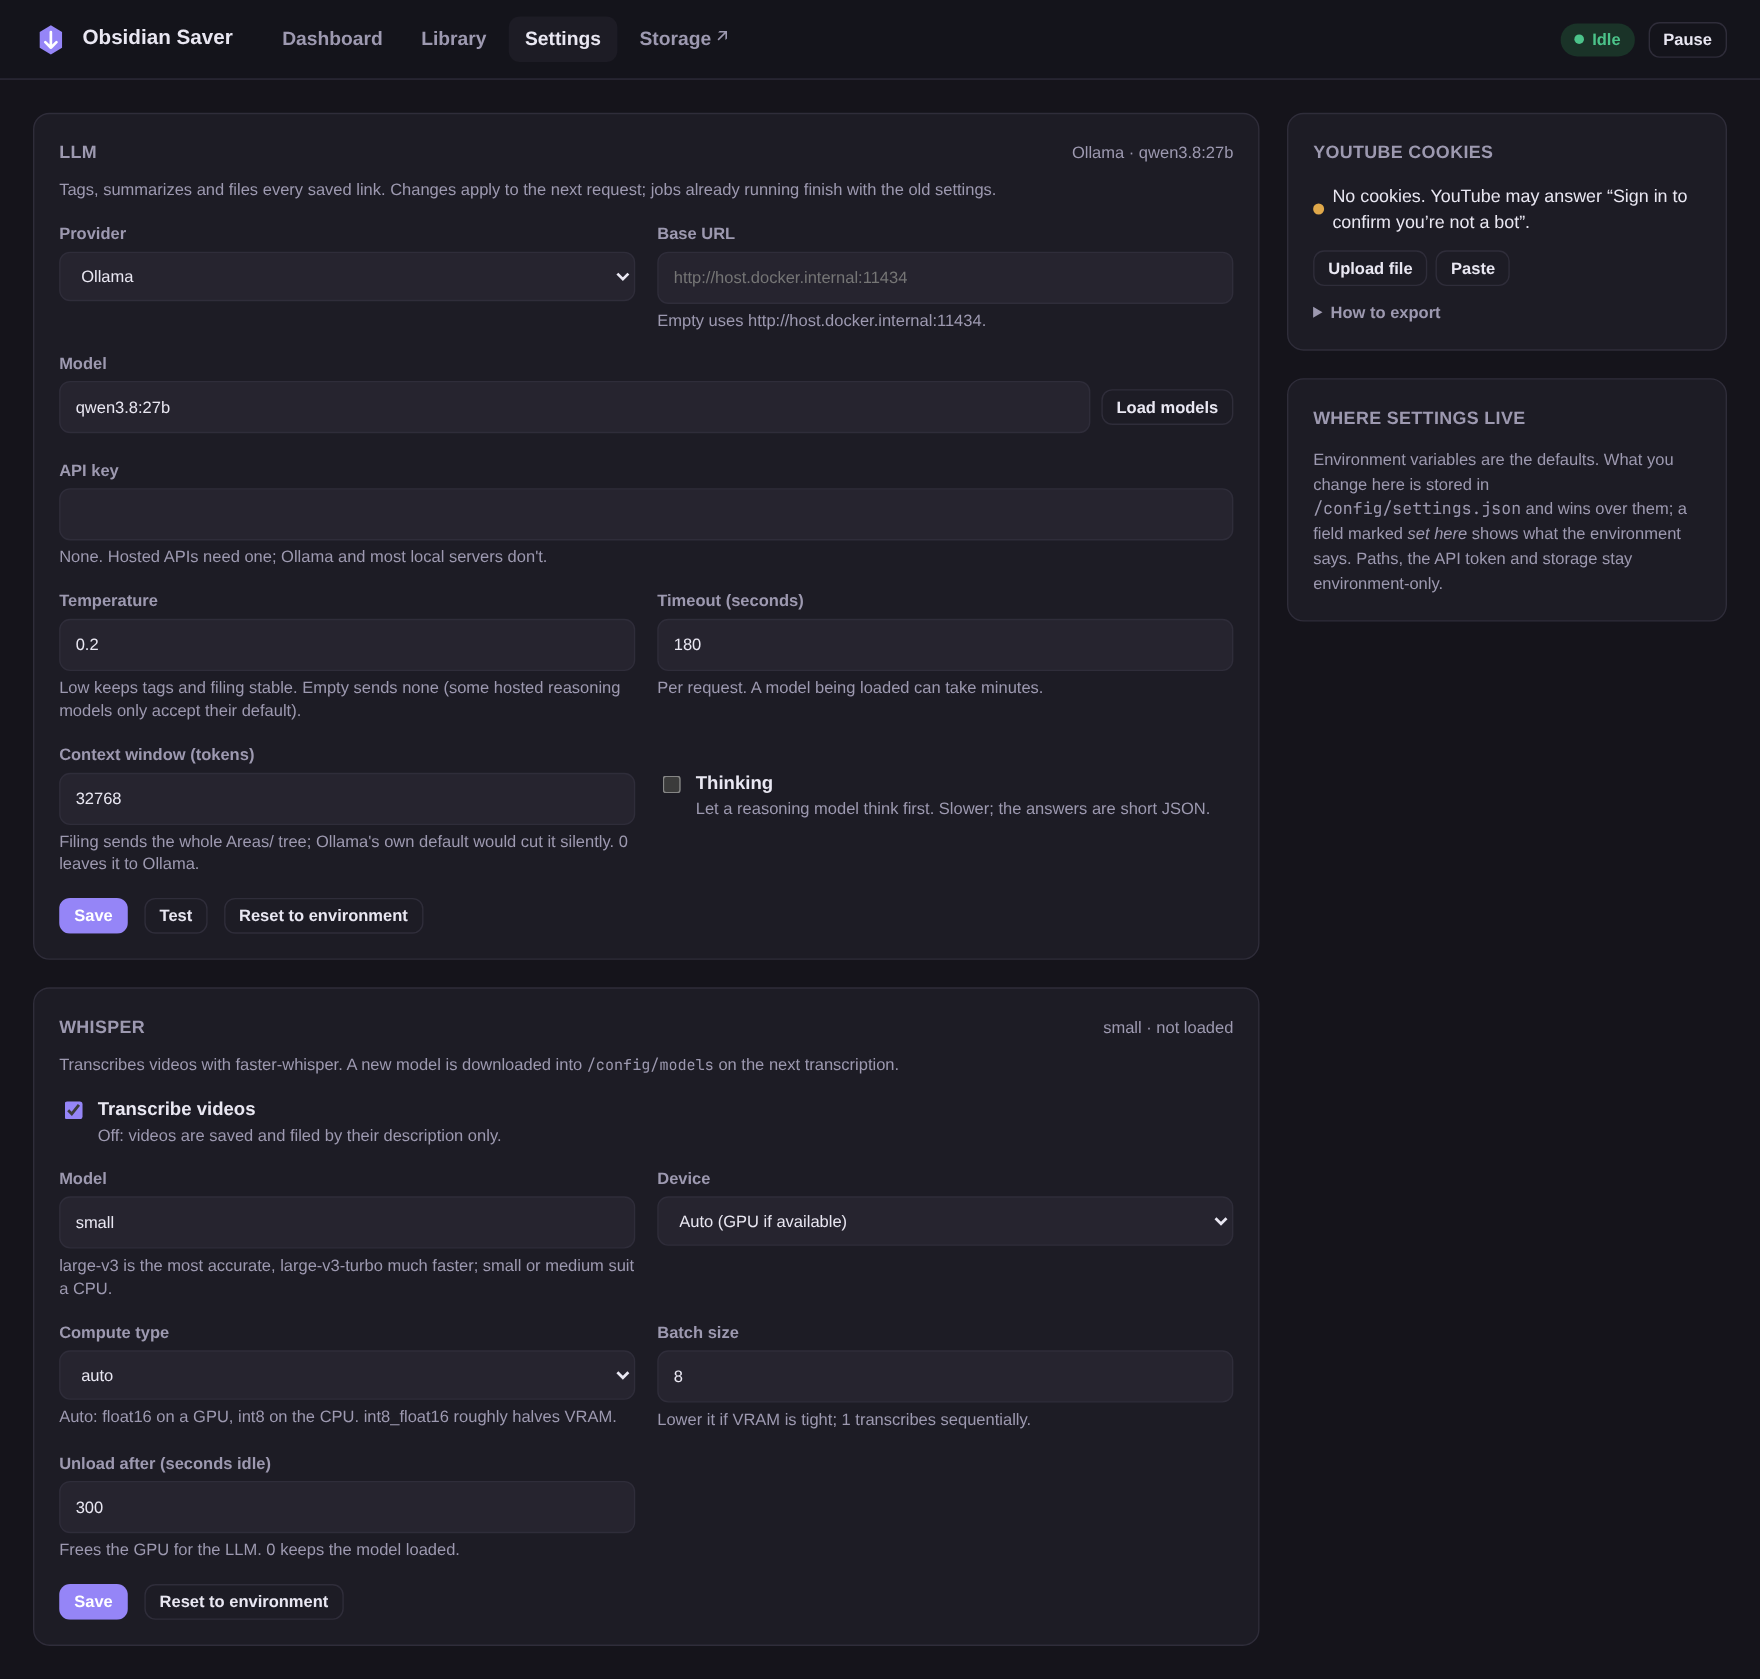
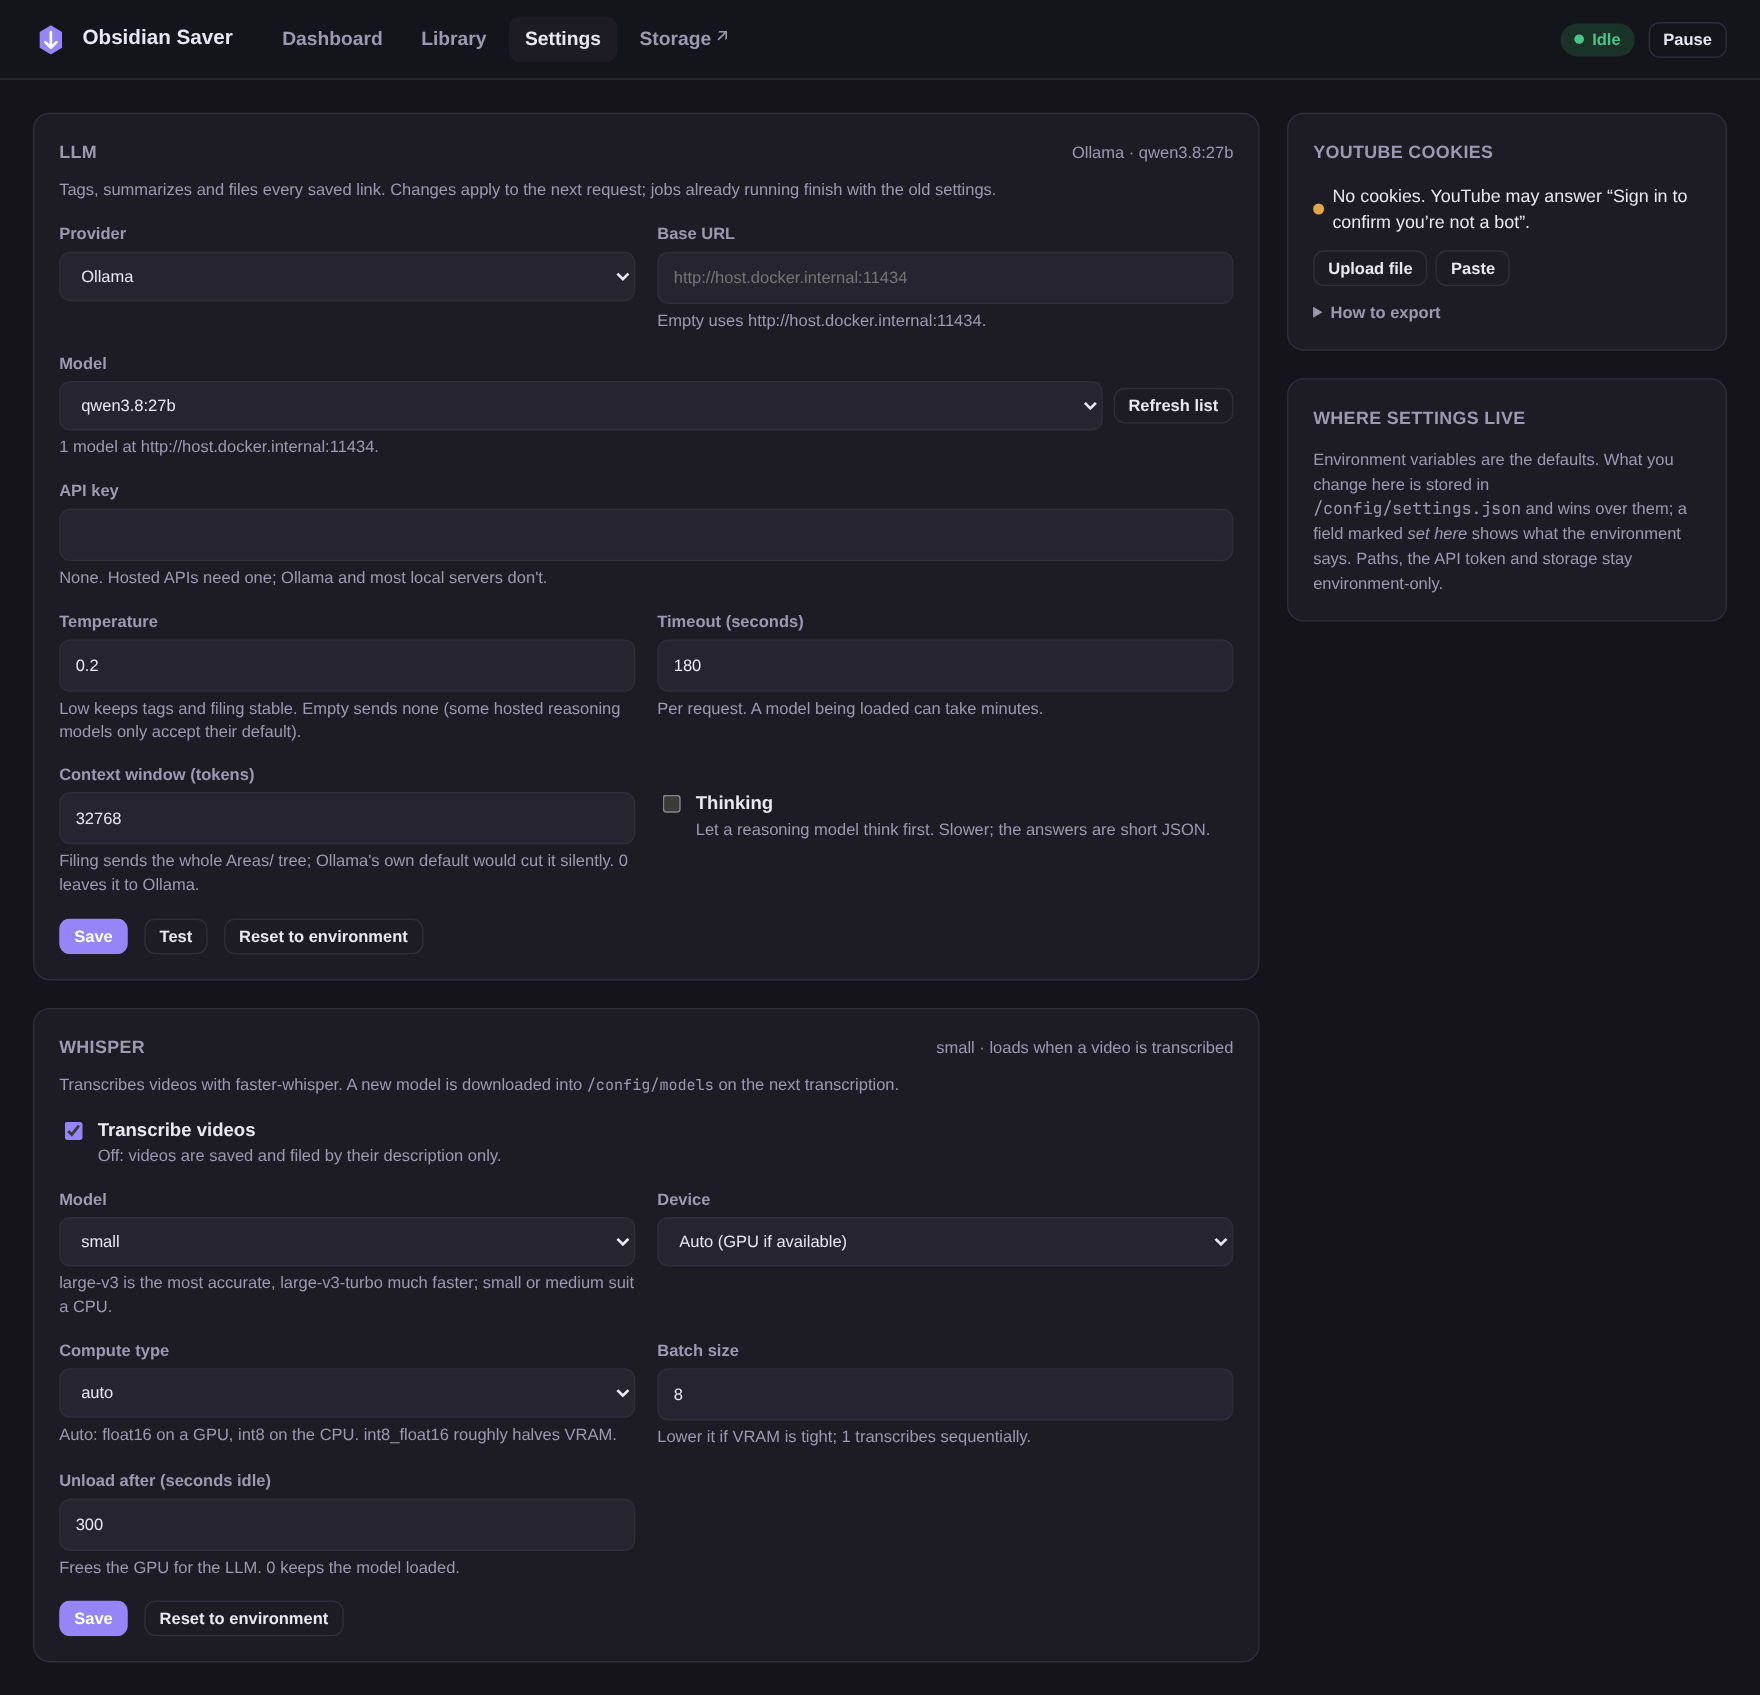
Settings tab: visible Test result, clearer Whisper state
- Test: the button reads "Testing…" while waiting, and the result is
  scrolled into view and stays until the next action. Under the long
  Ollama form it appeared below the fold and vanished after 6 s, so a
  quick answer looked like the button did nothing.
- Whisper showed "not loaded", which reads like a fault. The model is only
  loaded to transcribe and freed when idle, so it now says "loads when a
  video is transcribed", "in memory on the GPU, freed after 5 min idle"
  or "transcribing", and names the model in memory when it isn't the one
  just selected.
- README: Settings screenshots with the model dropdown.

diff --git a/saver/static/app.js b/saver/static/app.js
@@ -174,16 +174,31 @@ function renderStatus(state) {
   const info = [
     ["Vault", state.config.vault],
     ["LLM", `${state.config.llm_model} (${PROVIDER_LABELS[state.config.llm_provider] || state.config.llm_provider})`],
-    ["Whisper", w.enabled ? `${w.model}${w.loaded ? ` · loaded (${w.device})` : " · idle"}${w.busy ? " · busy" : ""}` : "disabled"],
+    ["Whisper", w.enabled ? `${w.model} · ${whisperState(w, true)}` : "off"],
     ["Cookies", cookieSummary(state.config.cookies)],
     ["Inbox", state.config.inbox_watch ? "watching singlefile_inbox" : "off"],
     ["Waypoints", waypointSummary(state.waypoints)],
     ["Version", state.version],
   ];
-  $("#whisper-state").textContent = !w.enabled ? "off"
-    : `${w.model}${w.loaded ? ` · loaded on ${w.device}` : " · not loaded"}${w.busy ? " · transcribing" : ""}`;
+  $("#whisper-state").textContent = whisperState(w);
   $("#service-info").replaceChildren(...info.flatMap(([k, v]) => [
     el("dt", {}, k), el("dd", { title: v, class: String(v).startsWith("⚠") ? "warn" : null }, v)]));
+}
+
+// Whisper loads its model only to transcribe and frees it after
+// unload_after idle seconds (the GPU is shared with the LLM), so "not in
+// memory" is the normal state, not a fault.
+function whisperState(w, short = false) {
+  if (!w.enabled) return "off";
+  const where = w.device === "cuda" ? "GPU" : (w.device || "").toUpperCase();
+  if (w.busy) return w.loaded ? `transcribing on the ${where}` : "loading the model to transcribe";
+  if (!w.loaded) return short ? "loads on demand" : `${w.model} · loads when a video is transcribed`;
+  const other = w.loaded_model && w.loaded_model !== w.model;
+  const freed = w.unload_after > 0 ? `, freed after ${Math.round(w.unload_after / 60) || 1} min idle` : "";
+  if (short) return `in memory (${where})${other ? `: ${w.loaded_model}` : ""}`;
+  return other
+    ? `${w.loaded_model} in memory (${where}); ${w.model} loads with the next video`
+    : `${w.model} · in memory on the ${where}${freed}`;
 }
 
 /* --------------------------------------------------------------- storage */
@@ -287,14 +302,16 @@ function renderCookies(c) {
   box.replaceChildren(...lines);
 }
 
-// A message under a form that hides itself again after a while.
-function flash(selector, text, isError = false) {
+// A message under a form, scrolled into view (it can sit below the fold
+// under a long form). It hides itself again after a while, unless sticky.
+function flash(selector, text, isError = false, sticky = false) {
   const msg = $(selector);
   msg.textContent = text;
   msg.classList.toggle("error", isError);
   msg.hidden = false;
+  msg.scrollIntoView({ block: "nearest", behavior: "smooth" });
   clearTimeout(msg.timer);
-  msg.timer = setTimeout(() => { msg.hidden = true; }, isError ? 15000 : 6000);
+  if (!sticky) msg.timer = setTimeout(() => { msg.hidden = true; }, isError ? 15000 : 6000);
 }
 
 const cookieMessage = (text, isError = false) => flash("#cookie-message", text, isError);
@@ -508,18 +525,22 @@ async function loadModels() {
   }
 }
 
+// The result stays until the next action: a quick answer would otherwise
+// come and go before anyone looks for it.
 async function testLLM() {
   const button = $("#llm-test");
   button.disabled = true;
-  flash("#llm-message", "Sending a test prompt…");
+  button.textContent = "Testing…";
+  flash("#llm-message", "Sending a test prompt (a model that isn't loaded yet can take a minute)…", false, true);
   try {
     const r = await api("/api/settings/llm/test", { method: "POST", json: { values: collectSettings($("#llm-form")) } });
-    const text = `${r.model} answered in ${r.seconds} s: ${r.reply || "(empty)"}`;
-    flash("#llm-message", r.json ? text : `${text}\nThat isn't JSON: the prompts need a model that follows instructions closely.`, !r.json);
+    const text = `\u2713 ${r.model} answered in ${r.seconds} s: ${r.reply || "(empty)"}`;
+    flash("#llm-message", r.json ? text : `${text}\nThat isn't JSON: the prompts need a model that follows instructions closely.`, !r.json, true);
   } catch (err) {
-    flash("#llm-message", `Test failed: ${errorDetail(err)}`, true);
+    flash("#llm-message", `Test failed: ${errorDetail(err)}`, true, true);
   } finally {
     button.disabled = false;
+    button.textContent = "Test";
   }
 }
 

diff --git a/saver/app.py b/saver/app.py
@@ -411,7 +411,9 @@ def create_app(run_lifecycle: bool = True) -> FastAPI:
         try:
             return {"models": llm.list_models(cfg), "base_url": cfg.llm_base_url}
         except (llm.LLMError, requests.RequestException, ValueError) as e:
-            raise HTTPException(status_code=502, detail=f"Could not list the models: {_llm_failure(cfg, e)}.")
+            failure = _llm_failure(cfg, e)
+            raise HTTPException(status_code=502, detail=f"Could not list the models: {failure}"
+                                + ("" if failure.endswith((".", "?", "!")) else "."))
 
     @app.post("/api/settings/llm/test", dependencies=auth)
     def llm_test(body: SettingsTry):

diff --git a/saver/transcribe.py b/saver/transcribe.py
@@ -164,7 +164,10 @@ def status() -> dict:
         "enabled": settings.whisper_enabled,
         "model": settings.whisper_model,
         "loaded": _model is not None,
+        # can differ from "model" right after the Settings tab changed it
+        "loaded_model": _model_key[0] if _model_key else None,
         "device": _model_key[1] if _model_key else None,
+        "unload_after": settings.whisper_unload_after,
         "busy": _gpu._value == 0,  # noqa: SLF001 - Semaphore has no public "locked" for this
     }
 
